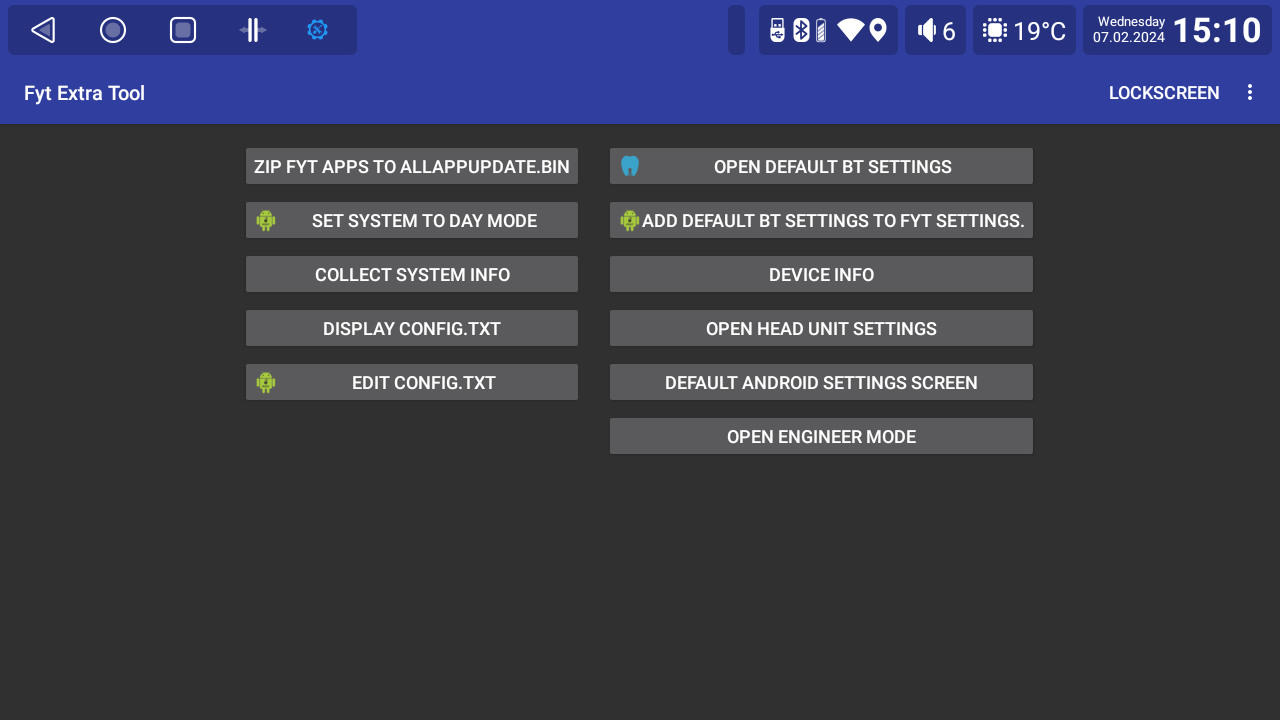
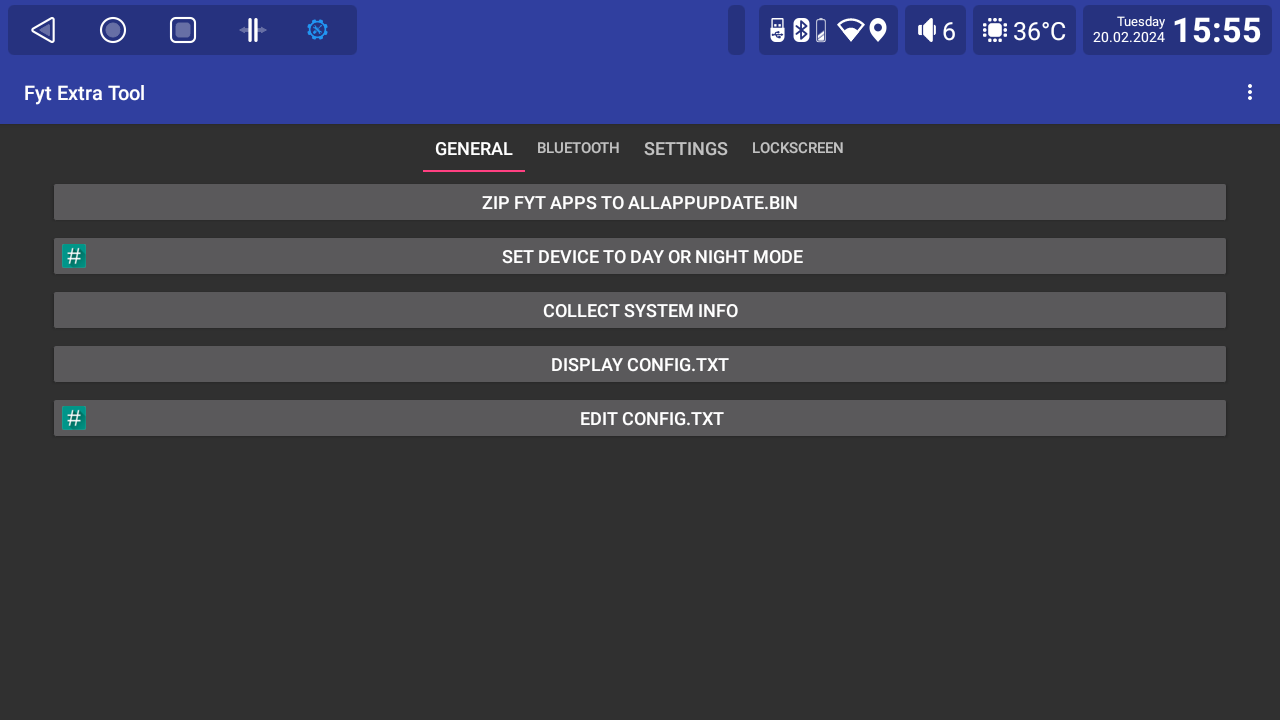
update Readme

diff --git a/README.md b/README.md
@@ -4,10 +4,10 @@ A simple tool that adds some extra functionality to your FYT unit.<br>
 ![logo](https://github.com/hvdwolf/FET/raw/main/images/logo.png)
 
 # Screenshots
-(preliminary)<br>
-## Dark Theme 1.0.8
+As of 1.2.0 the app switched to a tab layout.<br>
+## Dark Theme 1.2.x
 ![dark theme](https://github.com/hvdwolf/FET/raw/main/images/darktheme.png)
-## Light Theme 1.0.7
+## Light Theme 1.2.x
 ![light theme](https://github.com/hvdwolf/FET/raw/main/images/lighttheme.png)
 
 
@@ -19,13 +19,15 @@ The releases are not done via github, but via the XDA-forum via the thread: http
 That is also where you find the Changelogs and more screenshots displaying new/modified functionality.
 
 ## Translations
-Default is (US) English. Translated (90~100%) in Dutch, German, Italian, Polish, Russian, Vietnamese.
+Default is (US) English. Translated (90~100%) in Dutch, German, Greek, Italian, Polish, Russian, Swedish, Turkish, Vietnamese.
 
 <HR>
 MIT License
 
 Copyleft 2023 Harry van der Wolf (surfer63)<br>
-Copyright (c) 2018 Fayaz Bin Salam for his easypasscodelock functionality.
+Copyright (c) 2018 Fayaz Bin Salam for his easypasscodelock functionality.<br>
+Libsu from TopJohnWu, Apache 2 license.<br>
+Copyright AxesOfEvil for his FYTCanbusMonitor library.<br>
 
 Permission is hereby granted, free of charge, to any person obtaining a copy
 of this software and associated documentation files (the "Software"), to deal
